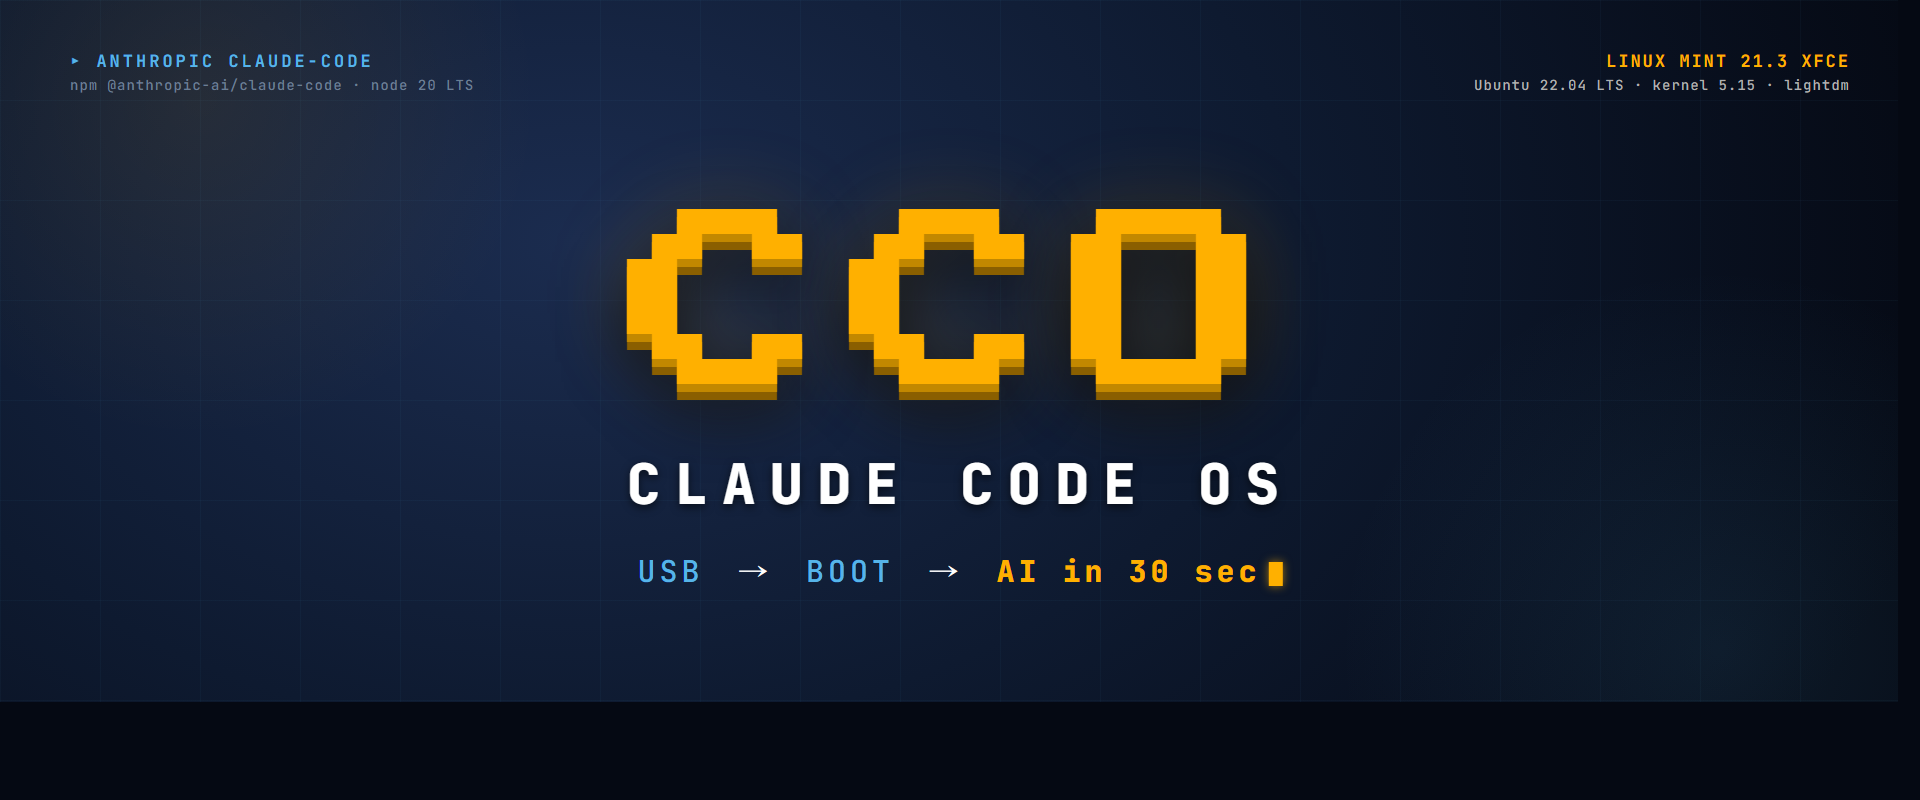
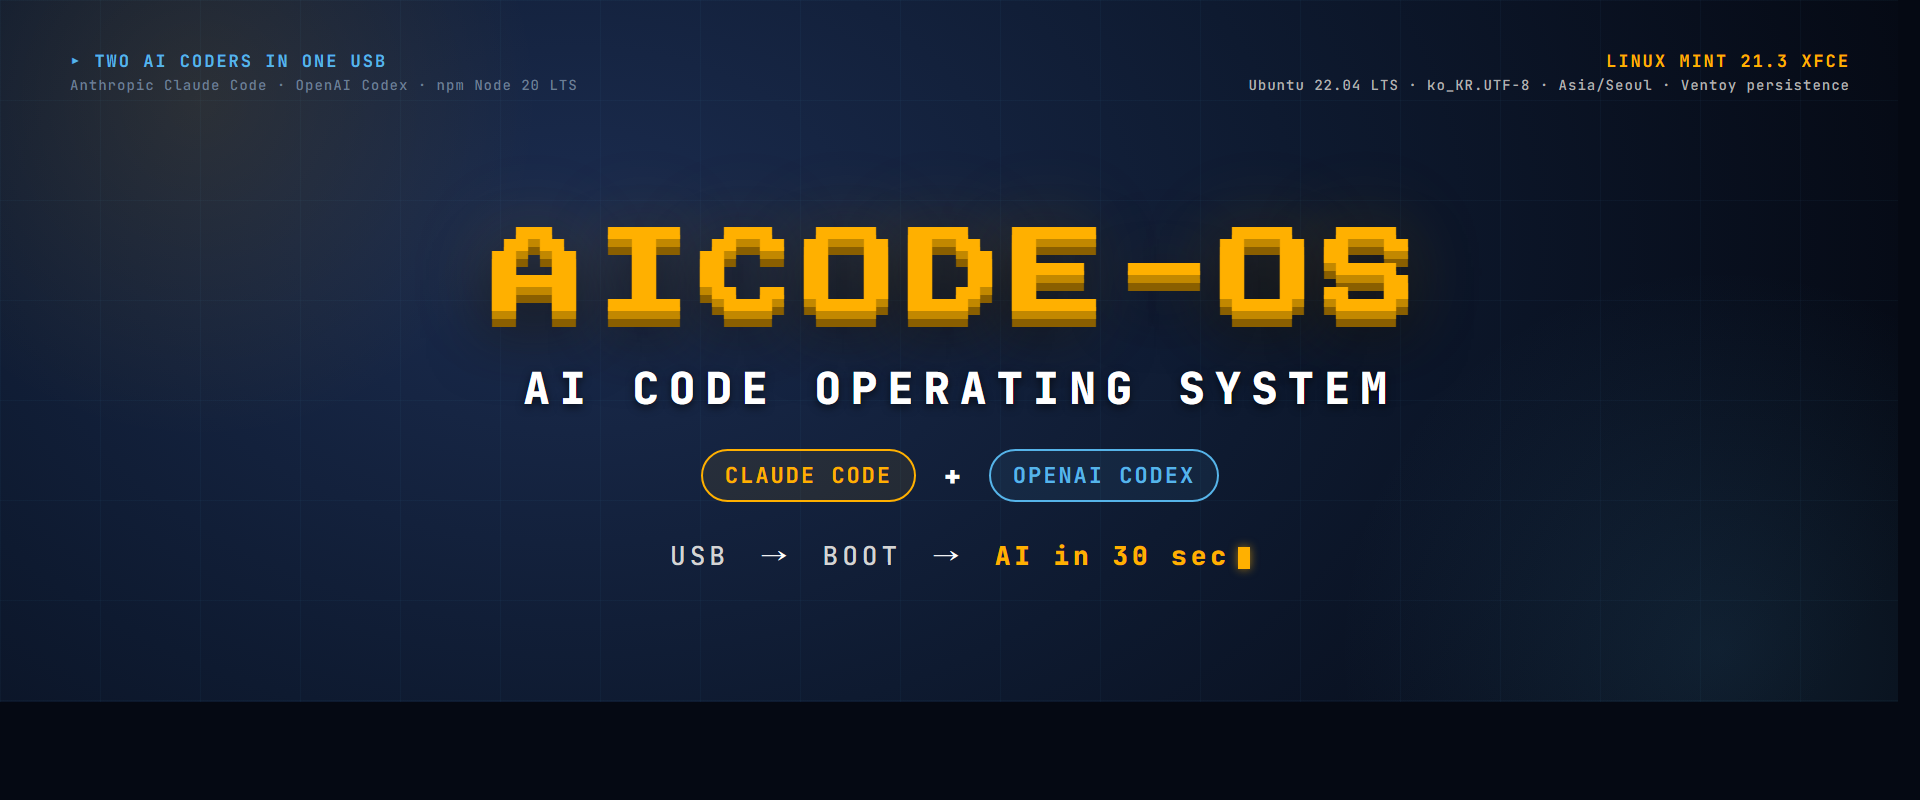
feat(v2.0.4): AICODE-OS 통합 브랜드 + OpenAI Codex CLI 지원
결정 (2026-05-08): Claude + Codex 두 AI 코더 통합 = AICODE-OS.

추가:
- npm install -g @openai/codex (chroot)
- 부팅 시 두 창 자동 (xfce4-terminal Claude geometry 좌상 + Codex 우중)
- 데스크톱 아이콘 두 개 (AICODE-Claude / AICODE-Codex)
- aicode-startup-claude / aicode-startup-codex 스크립트

브랜드:
- ISO 파일명 cco-mint-* -> aicode-os-*
- wallpaper / cover / logo 모두 AICODE-OS 표시
- Claude + Codex 색 구분 배지 (yellow / sky blue)
- 정본 cluster-skills/aicode-os/ (rename from cco-mint/)
- repo 이름 claude-code-os 유지

UI:
- cover title 한 줄 (96px, letter-spacing 8, nowrap)
- README + CHANGELOG v2.0.4 갱신

diff --git a/branding/cover.html b/branding/cover.html
@@ -19,7 +19,6 @@
     position: relative;
   }
 
-  /* subtle grid */
   body::before {
     content: '';
     position: absolute; inset: 0;
@@ -30,23 +29,21 @@
     pointer-events: none;
   }
 
-  /* glow blobs */
   .glow1 {
     position: absolute;
     width: 800px; height: 800px;
     left: -200px; top: -300px;
-    background: radial-gradient(circle, rgba(255,176,0,0.08) 0%, transparent 60%);
+    background: radial-gradient(circle, rgba(255,176,0,0.10) 0%, transparent 60%);
     pointer-events: none;
   }
   .glow2 {
     position: absolute;
     width: 900px; height: 900px;
     right: -250px; bottom: -300px;
-    background: radial-gradient(circle, rgba(86,180,233,0.10) 0%, transparent 60%);
+    background: radial-gradient(circle, rgba(86,180,233,0.12) 0%, transparent 60%);
     pointer-events: none;
   }
 
-  /* center column */
   .center {
     position: absolute;
     left: 50%; top: 50%;
@@ -55,13 +52,13 @@
     z-index: 3;
   }
 
-  /* CCO huge title */
   .title {
     font-family: 'Press Start 2P', monospace;
     color: #FFB000;
-    font-size: 200px;
-    letter-spacing: 22px;
+    font-size: 96px;
+    letter-spacing: 8px;
     line-height: 1;
+    white-space: nowrap;
     text-shadow:
       0 8px 0 #C28800,
       0 16px 0 #8A5F00,
@@ -70,25 +67,51 @@
   }
 
   .subtitle {
-    margin-top: 38px;
-    font-size: 56px;
-    letter-spacing: 14px;
+    margin-top: 36px;
+    font-size: 44px;
+    letter-spacing: 10px;
     color: #FFFFFF;
     font-weight: 800;
     text-shadow: 0 3px 8px rgba(0,0,0,0.6);
   }
 
+  .badges {
+    margin-top: 32px;
+    display: flex;
+    justify-content: center;
+    gap: 28px;
+    align-items: center;
+  }
+  .badge {
+    padding: 10px 22px;
+    border: 2px solid;
+    border-radius: 999px;
+    font-size: 22px;
+    font-weight: 700;
+    letter-spacing: 2px;
+  }
+  .b-claude { color: #FFB000; border-color: #FFB000; background: rgba(255,176,0,0.08); }
+  .b-codex  { color: #56B4E9; border-color: #56B4E9; background: rgba(86,180,233,0.08); }
+  .plus { color: #FFFFFF; font-size: 28px; font-weight: 800; }
+
   .slogan {
-    margin-top: 30px;
-    font-size: 30px;
+    margin-top: 36px;
+    font-size: 26px;
     letter-spacing: 4px;
-    color: #56B4E9;
+    color: #D4D4D4;
     font-weight: 500;
   }
   .slogan b { color: #FFB000; font-weight: 800; }
   .slogan .arrow { color: #FFFFFF; font-weight: 800; margin: 0 12px; }
+  .cursor {
+    display: inline-block;
+    width: 12px; height: 22px;
+    background: #FFB000;
+    vertical-align: middle;
+    margin-left: 8px;
+    box-shadow: 0 0 10px rgba(255,176,0,0.6);
+  }
 
-  /* corner brand */
   .top-left {
     position: absolute;
     top: 50px; left: 70px;
@@ -96,7 +119,7 @@
     color: #56B4E9;
     font-size: 17px;
     font-weight: 700;
-    letter-spacing: 3px;
+    letter-spacing: 2px;
   }
   .top-left .dim { color: #6B7E94; font-weight: 500; margin-top: 4px; letter-spacing: 1px; font-size: 14px; }
 
@@ -112,7 +135,6 @@
   }
   .top-right .dim { color: #B0B0B0; font-weight: 500; font-size: 14px; letter-spacing: 1px; margin-top: 4px; }
 
-  /* bottom badges (단순) */
   .bottom-left {
     position: absolute;
     bottom: 50px; left: 70px;
@@ -133,16 +155,6 @@
     letter-spacing: 1px;
   }
   .bottom-right b { color: #56B4E9; font-weight: 700; }
-
-  /* prompt cursor */
-  .cursor {
-    display: inline-block;
-    width: 14px; height: 24px;
-    background: #FFB000;
-    vertical-align: middle;
-    margin-left: 8px;
-    box-shadow: 0 0 10px rgba(255,176,0,0.6);
-  }
 </style>
 </head>
 <body>
@@ -150,23 +162,28 @@
   <div class="glow2"></div>
 
   <div class="top-left">
-    ▸  ANTHROPIC  CLAUDE-CODE
-    <div class="dim">npm @anthropic-ai/claude-code · node 20 LTS</div>
+    ▸  TWO  AI  CODERS  IN  ONE  USB
+    <div class="dim">Anthropic Claude Code · OpenAI Codex · npm Node 20 LTS</div>
   </div>
 
   <div class="top-right">
     LINUX  MINT  21.3  XFCE
-    <div class="dim">Ubuntu 22.04 LTS · kernel 5.15 · lightdm</div>
+    <div class="dim">Ubuntu 22.04 LTS · ko_KR.UTF-8 · Asia/Seoul · Ventoy persistence</div>
   </div>
 
   <div class="center">
-    <div class="title">CCO</div>
-    <div class="subtitle">CLAUDE  CODE  OS</div>
+    <div class="title">AICODE-OS</div>
+    <div class="subtitle">AI  CODE  OPERATING  SYSTEM</div>
+    <div class="badges">
+      <span class="badge b-claude">CLAUDE CODE</span>
+      <span class="plus">+</span>
+      <span class="badge b-codex">OPENAI CODEX</span>
+    </div>
     <div class="slogan">USB <span class="arrow">→</span> BOOT <span class="arrow">→</span> <b>AI in 30 sec</b><span class="cursor"></span></div>
   </div>
 
   <div class="bottom-left">
-    <b>bootable LiveUSB</b>  ·  Ventoy persistence  ·  ko_KR.UTF-8
+    <b>bootable LiveUSB</b>  ·  Ventoy persistence  ·  ibus-hangul  ·  D2Coding
   </div>
 
   <div class="bottom-right">

diff --git a/branding/wallpaper.html b/branding/wallpaper.html
@@ -19,7 +19,6 @@
     position: relative;
   }
 
-  /* faint grid lines for tech feel — sky blue, low alpha */
   body::before {
     content: '';
     position: absolute; inset: 0;
@@ -30,7 +29,6 @@
     pointer-events: none;
   }
 
-  /* vignette */
   body::after {
     content: '';
     position: absolute; inset: 0;
@@ -47,13 +45,13 @@
     z-index: 2;
   }
 
-  /* Big yellow CCO — pixel font, IBM yellow, deep shadow for depth + contrast */
   .title {
     font-family: 'Press Start 2P', monospace;
     color: #FFB000;
-    font-size: 110px;
-    letter-spacing: 14px;
+    font-size: 88px;
+    letter-spacing: 8px;
     line-height: 1.0;
+    white-space: nowrap;
     text-shadow:
       0 6px 0 #C28800,
       0 12px 0 #8A5F00,
@@ -61,16 +59,35 @@
   }
 
   .subtitle {
-    margin-top: 50px;
-    font-size: 40px;
-    color: #FFB000;
+    margin-top: 46px;
+    font-size: 36px;
+    color: #FFFFFF;
     letter-spacing: 6px;
     font-weight: 700;
     text-shadow: 0 2px 4px rgba(0,0,0,0.5);
   }
 
+  .badges {
+    margin-top: 40px;
+    display: flex;
+    justify-content: center;
+    gap: 24px;
+    align-items: center;
+  }
+  .badge {
+    padding: 10px 20px;
+    border: 2px solid;
+    border-radius: 999px;
+    font-size: 20px;
+    font-weight: 700;
+    letter-spacing: 2px;
+  }
+  .b-claude { color: #FFB000; border-color: #FFB000; background: rgba(255,176,0,0.08); }
+  .b-codex  { color: #56B4E9; border-color: #56B4E9; background: rgba(86,180,233,0.08); }
+  .plus { color: #FFFFFF; font-size: 24px; font-weight: 800; }
+
   .meta {
-    margin-top: 22px;
+    margin-top: 38px;
     font-size: 22px;
     color: #FFFFFF;
     letter-spacing: 1px;
@@ -87,7 +104,6 @@
   }
   .meta2 b { color: #FFB000; font-weight: 700; }
 
-  /* corner badges */
   .badge-top-left {
     position: absolute;
     top: 60px; left: 70px;
@@ -140,48 +156,48 @@
 </head>
 <body>
 
-  <!-- top-left: tools (sky blue header) -->
   <div class="badge-top-left">
-    <div class="h">▸  AVAILABLE  TOOLS</div>
-    <div class="row">claude  --dangerously-skip-permissions</div>
+    <div class="h">▸  AVAILABLE  AI  CODERS</div>
+    <div class="row">claude  --dangerously-skip-permissions  (Anthropic)</div>
+    <div class="row">codex  (OpenAI Codex CLI)</div>
     <div class="row">firefox  ·  xfce4-terminal  ·  thunar</div>
     <div class="row">node v20 LTS  ·  npm  ·  bash</div>
-    <div class="row">NetworkManager  ·  nm-applet  (Wi-Fi GUI)</div>
-    <div class="row">ibus-hangul   (Shift+Space  한/영)</div>
+    <div class="row">NetworkManager  ·  nm-applet  ·  ibus-hangul</div>
   </div>
 
-  <!-- top-right: spec (vermillion header) -->
   <div class="badge-top-right">
     <div class="h">▸  SYSTEM</div>
-    <div>Linux Mint 21.3   XFCE</div>
-    <div>Ubuntu 22.04 LTS   (jammy)</div>
+    <div>Linux Mint 21.3  XFCE</div>
+    <div>Ubuntu 22.04 LTS  (jammy)</div>
     <div>kernel 5.15  ·  xorg  ·  lightdm</div>
     <div>D2Coding  ·  Noto CJK KR</div>
     <div>persistence:  casper-rw  3.5GB</div>
   </div>
 
-  <!-- center -->
   <div class="center">
-    <div class="title">CCO</div>
-    <div class="subtitle">CLAUDE  CODE  OS</div>
+    <div class="title">AICODE-OS</div>
+    <div class="subtitle">AI  CODE  OPERATING  SYSTEM</div>
+    <div class="badges">
+      <span class="badge b-claude">CLAUDE CODE</span>
+      <span class="plus">+</span>
+      <span class="badge b-codex">OPENAI CODEX</span>
+    </div>
     <div class="meta">
-      <b>v2.0.3</b>  ·  bootable LiveUSB  ·  Ventoy persistence
+      <b>v2.0.4</b>  ·  bootable LiveUSB  ·  Ventoy persistence
     </div>
     <div class="meta2">
-      <b>user</b> cco   ·   <b>sudo</b> NOPASSWD   ·   <b>autologin</b> on
+      <b>user</b> cco   ·   <b>sudo</b> NOPASSWD   ·   <b>autologin</b> on   ·   <b>한글</b> Shift+Space
     </div>
   </div>
 
-  <!-- bottom-left: target hardware (vermillion header) -->
   <div class="badge-bottom-left">
     <div class="h">▸  TARGET  HARDWARE</div>
     <div>ASUS X515  ·  Samsung NT900X3A  ·  any x86_64 PC</div>
     <div>boot via Ventoy USB  ·  <b>F12 / ESC</b>  for boot menu</div>
   </div>
 
-  <!-- bottom-right: brand -->
   <div class="badge-bottom-right">
-    <b>anthropic</b>   claude-code<br>
+    <b>anthropic</b>   claude-code  +  <b>openai</b>   codex<br>
     github.com/Hostingglobal-Tech/claude-code-os<br>
     <span class="accent">2026.05.08</span>
   </div>

diff --git a/branding/logo.html b/branding/logo.html
@@ -202,14 +202,14 @@
 <!-- desktop icon -->
 <div class="deskicon">
   <div class="img">CCO</div>
-  <div>Claude Code OS</div>
+  <div>AICODE-OS</div>
 </div>
 
 <!-- xfce4-terminal -->
 <div class="term">
 
   <div class="titlebar">
-    <div class="title">Claude Code OS — cco@cco-live: ~</div>
+    <div class="title">AICODE-OS — cco@cco-live: ~</div>
     <div class="ctrls">
       <div class="b">—</div>
       <div class="b">▢</div>
@@ -226,8 +226,8 @@
 <div class="banner">
    ██████╗  ██████╗  ██████╗
   ██╔════╝ ██╔════╝ ██╔═══██╗
-  ██║      ██║      ██║   ██║      <span class="meta">Claude Code OS</span>
-  ██║      ██║      ██║   ██║      <span class="meta">v2.0.3  ·  Mint 21.3 XFCE</span>
+  ██║      ██║      ██║   ██║      <span class="meta">AICODE-OS</span>
+  ██║      ██║      ██║   ██║      <span class="meta">v2.0.4  ·  Mint 21.3 XFCE  ·  Claude + Codex</span>
   ╚██████╗ ╚██████╗ ╚██████╔╝      <span class="meta">user: cco  (sudo NOPASSWD)</span>
    ╚═════╝  ╚═════╝  ╚═════╝       <span class="meta">net : NetworkManager (Wi-Fi GUI)</span>
 </div>
@@ -259,7 +259,7 @@
 <!-- panel -->
 <div class="panel">
   <div class="menu">⊞ Menu</div>
-  <div style="margin-left:12px; color:#E8E8E8">▣ Claude Code OS — cco@cco-live: ~</div>
+  <div style="margin-left:12px; color:#E8E8E8">▣ AICODE-OS — cco@cco-live: ~</div>
   <div class="sep"></div>
   <div class="tray">
     <span>📶</span><span>🔊</span><span class="ws">▣ 1</span><span>2026-05-07  18:57</span>

diff --git a/CHANGELOG.md b/CHANGELOG.md
@@ -4,6 +4,28 @@
 
 ---
 
+## v2.0.4 (2026-05-08) — OpenAI Codex CLI 통합 + AICODE-OS 브랜드 전환
+
+### 추가
+- **OpenAI Codex CLI** (`npm @openai/codex`) chroot 안 install — Anthropic Claude Code 와 함께 두 AI 코더 탑재
+- **부팅 시 두 창 자동 시작**:
+  - 좌측: `xfce4-terminal` geometry 120×36+50+80 → `aicode-startup-claude` → claude
+  - 우측: `xfce4-terminal` geometry 100×30+1000+450 → `aicode-startup-codex` → codex (2초 지연 시작)
+- **데스크톱 아이콘 두 개**: `AICODE-Claude.desktop` + `AICODE-Codex.desktop`
+- ASCII banner 갱신 — 거대 "AICODE OS" 노란/하늘색 (Claude/Codex 각 창 색 구분)
+
+### 브랜드 변경
+- 통합 이름 = **AICODE-OS** (사장님 결정)
+- ISO 파일명 `cco-mint-v2.0.x.iso` → `aicode-os-v2.0.4.iso`
+- wallpaper / cover / logo 모두 "AICODE-OS" + Claude + Codex 배지 (yellow + sky blue)
+- cluster-skills 정본 폴더 `cco-mint/` → `aicode-os/` git mv
+- repo 이름 `claude-code-os` 유지 (URL 호환성)
+
+### 수정
+- cover title 한 줄 표시 (font-size 96px + letter-spacing 8px + white-space:nowrap)
+
+---
+
 ## v2.0.3 (2026-05-08) — 한글 입력기 EN+KO 자동 등록 + 가독성 폰트
 
 ### 추가
